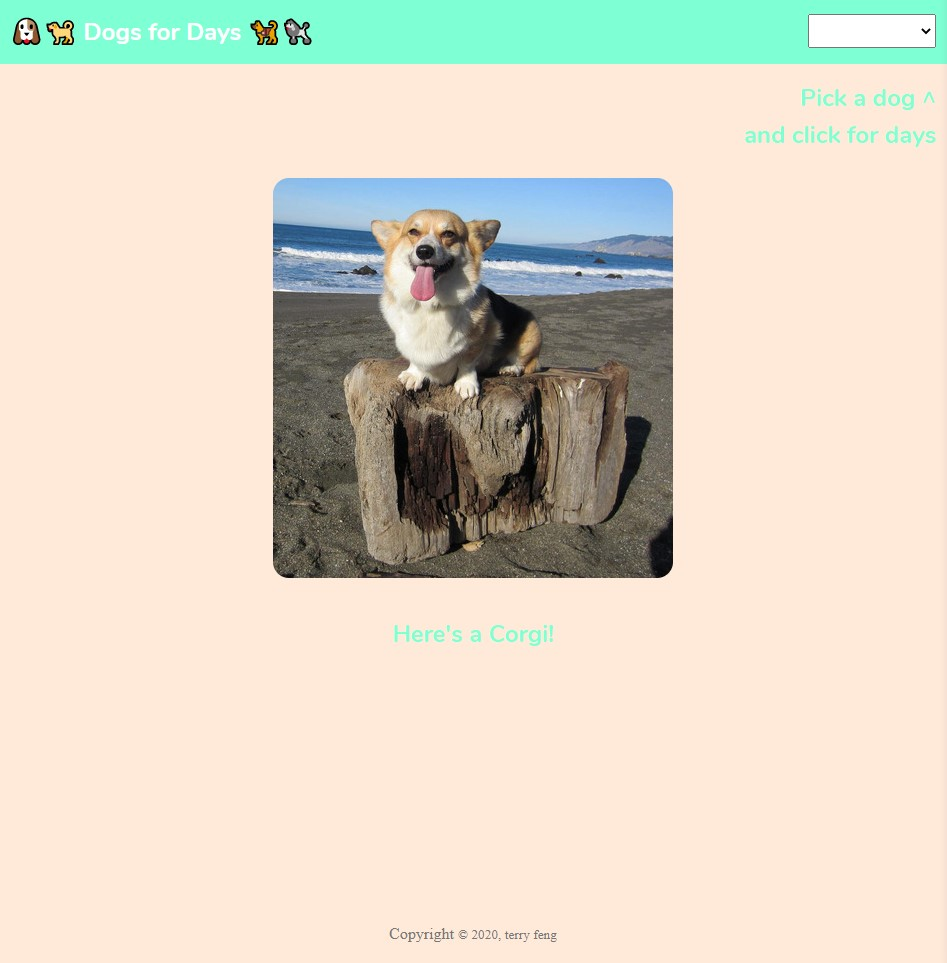
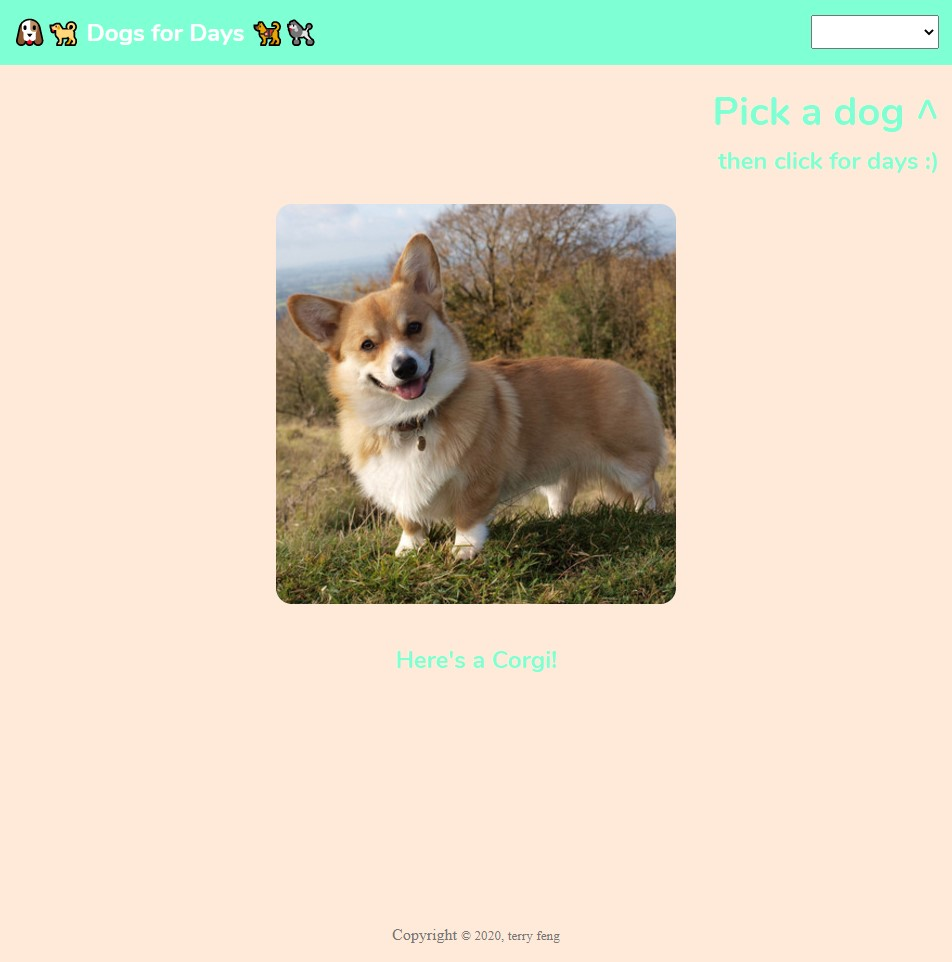
Updated Functionality

diff --git a/doggos.js b/doggos.js
@@ -24,6 +24,7 @@ const BREEDS_ALL = "https://dog.ceo/api/breeds/list/all";
 const select = document.querySelector(".breeds");
 const dog = document.querySelector(".dog-img");
 const instr = document.querySelectorAll(".pick")
+const next = document.querySelector("#next");
 
 const spinner = document.querySelector(".spinner");
 
@@ -34,6 +35,7 @@ function getDog(url) {
     dog.classList.remove("show");
     instr[0].style.display = "none";
     instr[1].style.display = "none";
+    next.style.display = "none";
 
     fetch(url)
         .then(function (response) {
@@ -70,14 +72,18 @@ select.addEventListener("change", function (e) {
     }
 });
 
-dog.addEventListener("click", function() {
+next.addEventListener("click", function() {
     if (select.value !== "") {
         let url = `https://dog.ceo/api/breed/${select.value}/images/random`;
         getDog(url);
     }
-})
+});
+
 // When image is loaded, stop load spinner
 dog.addEventListener("load", function () {
     spinner.classList.remove("show");
     dog.classList.add("show");
+    if (select.value !== "") {
+        next.style.display = "block";
+    }
 });

diff --git a/style.css b/style.css
@@ -45,24 +45,44 @@ h2 {
     padding: 1em 1em .5em 1em;
     text-align: right;
 }
+#large {
+    font-size: 2.5em;
+}
 .dog-img {
     display: none;
     border-radius: 1em;
-    max-height: 85vh;
+    max-height: 78vh;
     max-width: 90vh;
-}
-.dog-img:hover {
-    cursor: hand;
-    opacity: 0.8;
-    transition: .5s;
 }
 
 .show {
     display: block;
 }
-.instr {
+.instr{
     text-align: center;
 }
+/* button */
+.button-container {
+    display: flex;
+    justify-content: center;
+}
+#next {
+    display: none;
+    padding: 5px 1em;
+    font-size: 1.2em;
+    font-family: Nunito, sans-serif;
+    background-color: aquamarine;
+    color: white;
+    border-radius: .7rem;
+    border: none;
+}
+#next:hover {
+    cursor: hand;
+    font-size: 1.3em;
+    background-color: #7fffee;
+    transition: .2s;
+}
+
 /* footer */
 #container {
     position: relative;
@@ -82,3 +102,5 @@ footer {
     text-align: center;
     color: #777;
 }
+
+

diff --git a/index.html b/index.html
@@ -20,8 +20,8 @@
                 </nav>
 
                 <div class="pick">
-                    <h2>Pick a dog ^</h2>
-                    <h2>and click for days</h2>
+                    <h2 id="large">Pick a dog ^</h2>
+                    <h2>then click for days :)</h2>
                 </div>
 
                 <div class="doggos">
@@ -31,12 +31,14 @@
                         class="dog-img show"
                     />
                 </div>
-
                 <div class="spinner">
                     🐶
                 </div>
 
                 <h2 class="pick instr">Here's a Corgi!</h2>
+                <div class="button-container">
+                    <button id="next">MORE!</button>
+                </div>
 
                 <script src="./doggos.js"></script>
             </div>
